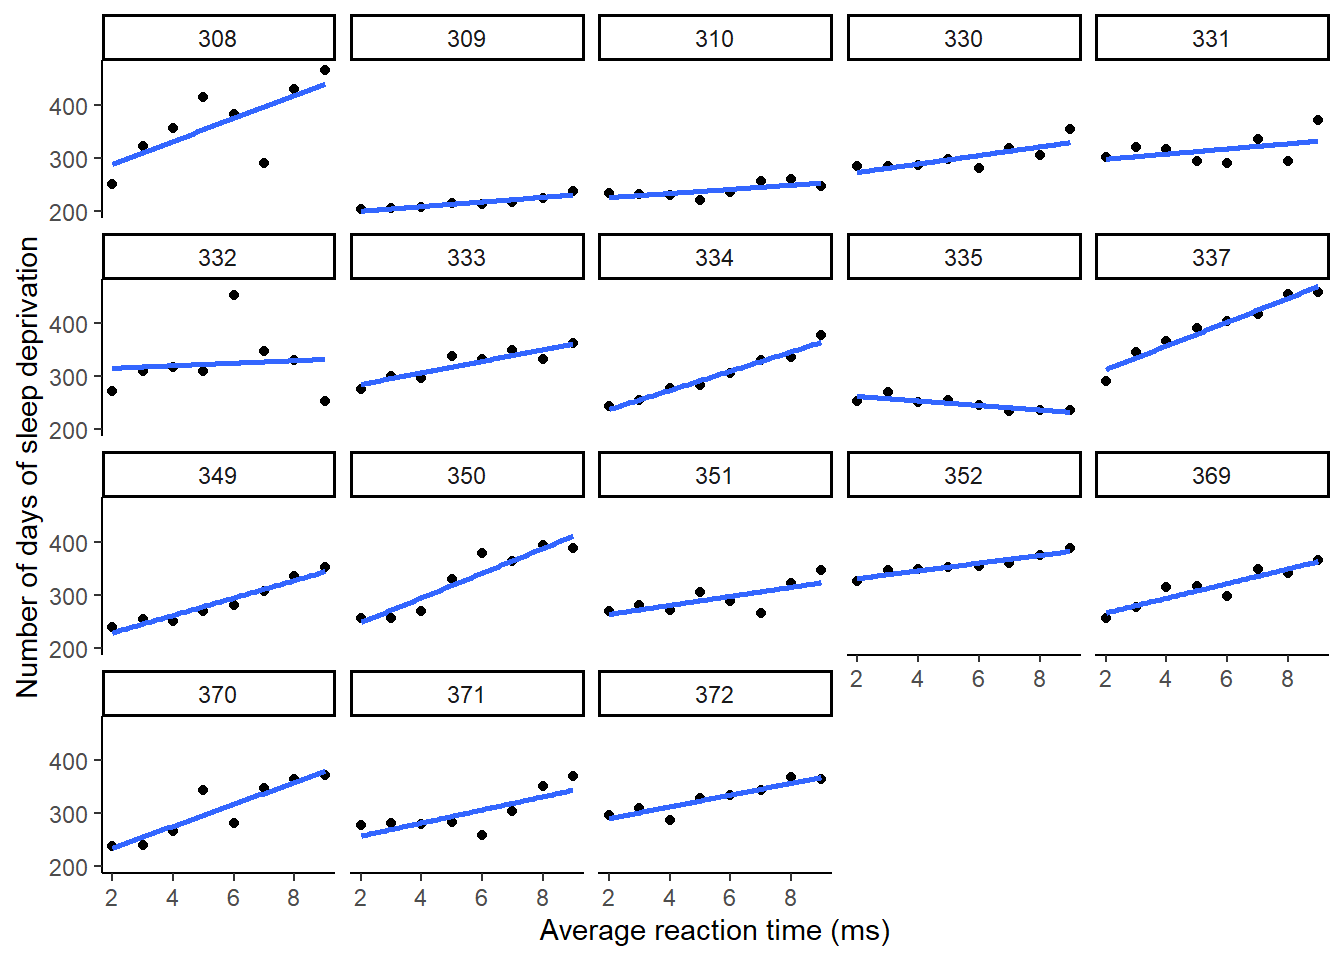
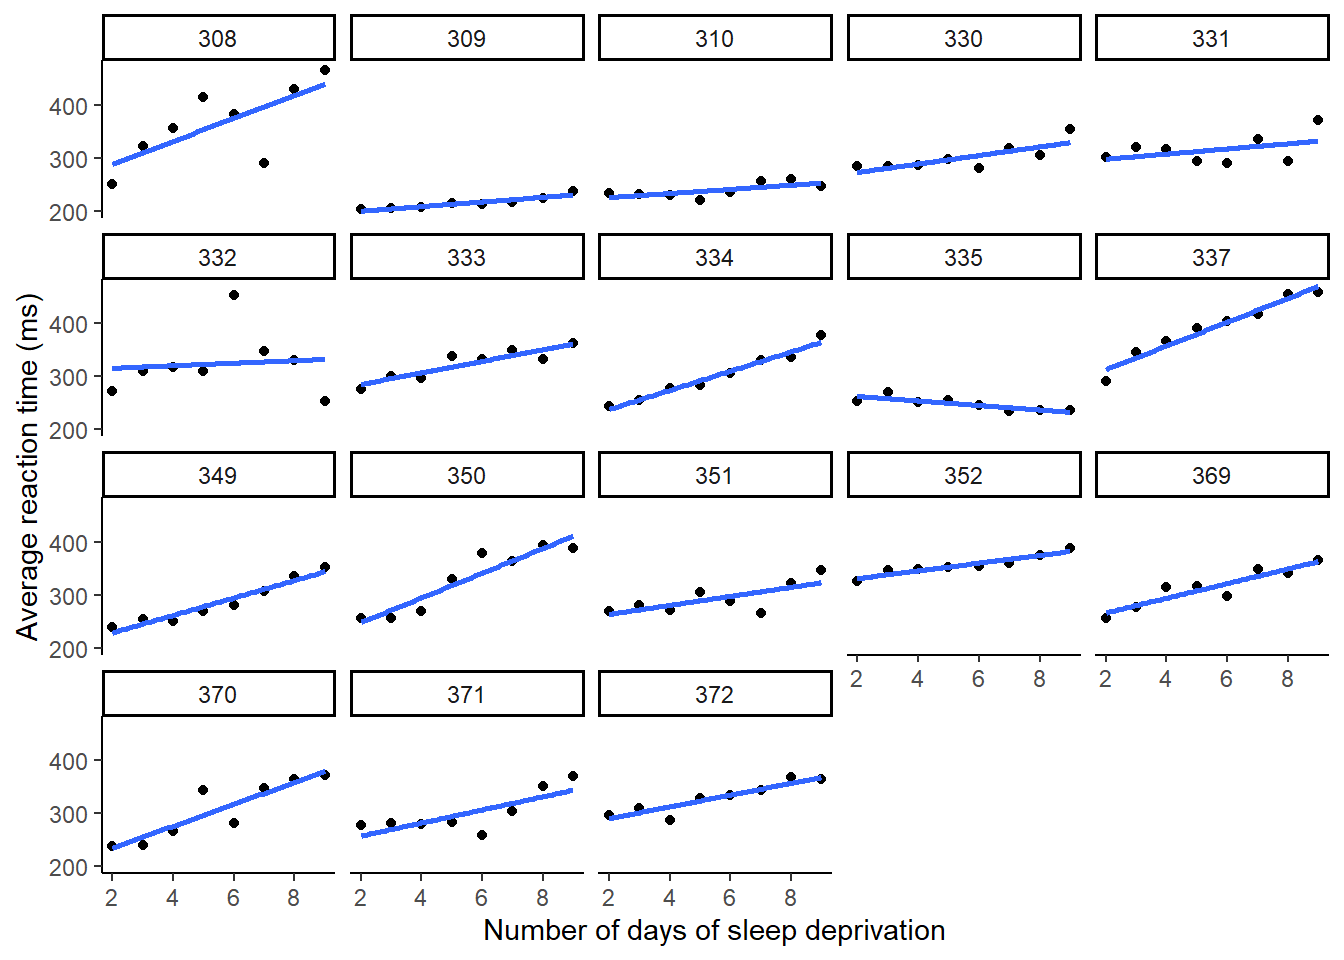
Built site for gh-pages

Changed region(s): [[0.375, 0.9375, 0.6875, 1.0], [0.0, 0.25, 0.0312, 0.7188]]

diff --git a/statistik/Statistik6_Demo.html b/statistik/Statistik6_Demo.html
@@ -1047,8 +1047,8 @@ Signif. codes:  0 '***' 0.001 '**' 0.01 '*' 0.05 '.' 0.1 ' ' 1</code></pre>
 <div class="sourceCode cell-code" id="cb52"><pre class="sourceCode r code-with-copy"><code class="sourceCode r"><span id="cb52-1"><a href="#cb52-1" aria-hidden="true" tabindex="-1"></a><span class="co"># Visualisierung</span></span>
 <span id="cb52-2"><a href="#cb52-2" aria-hidden="true" tabindex="-1"></a><span class="fu">ggplot</span>(sleepstudy_2, <span class="fu">aes</span>(<span class="at">y =</span> Reaction, <span class="at">x =</span> Days)) <span class="sc">+</span></span>
 <span id="cb52-3"><a href="#cb52-3" aria-hidden="true" tabindex="-1"></a>  <span class="fu">geom_point</span>() <span class="sc">+</span></span>
-<span id="cb52-4"><a href="#cb52-4" aria-hidden="true" tabindex="-1"></a>  <span class="fu">xlab</span>(<span class="st">"Average reaction time (ms)"</span>) <span class="sc">+</span></span>
-<span id="cb52-5"><a href="#cb52-5" aria-hidden="true" tabindex="-1"></a>  <span class="fu">ylab</span>(<span class="st">"Number of days of sleep deprivation"</span>) <span class="sc">+</span></span>
+<span id="cb52-4"><a href="#cb52-4" aria-hidden="true" tabindex="-1"></a>  <span class="fu">xlab</span>(<span class="st">"Number of days of sleep deprivation"</span>) <span class="sc">+</span></span>
+<span id="cb52-5"><a href="#cb52-5" aria-hidden="true" tabindex="-1"></a>  <span class="fu">ylab</span>(<span class="st">"Average reaction time (ms)"</span>) <span class="sc">+</span></span>
 <span id="cb52-6"><a href="#cb52-6" aria-hidden="true" tabindex="-1"></a>  <span class="fu">geom_smooth</span>(<span class="at">method =</span> <span class="st">"lm"</span>, <span class="at">formula =</span> <span class="st">'y ~ x'</span>, <span class="at">se =</span> F, <span class="at">fullrange =</span> T) <span class="sc">+</span></span>
 <span id="cb52-7"><a href="#cb52-7" aria-hidden="true" tabindex="-1"></a>  <span class="fu">theme_classic</span>() <span class="sc">+</span></span>
 <span id="cb52-8"><a href="#cb52-8" aria-hidden="true" tabindex="-1"></a>  <span class="fu">facet_wrap</span>(<span class="sc">~</span>Subject)</span></code><button title="In die Zwischenablage kopieren" class="code-copy-button"><i class="bi"></i></button></pre></div>
